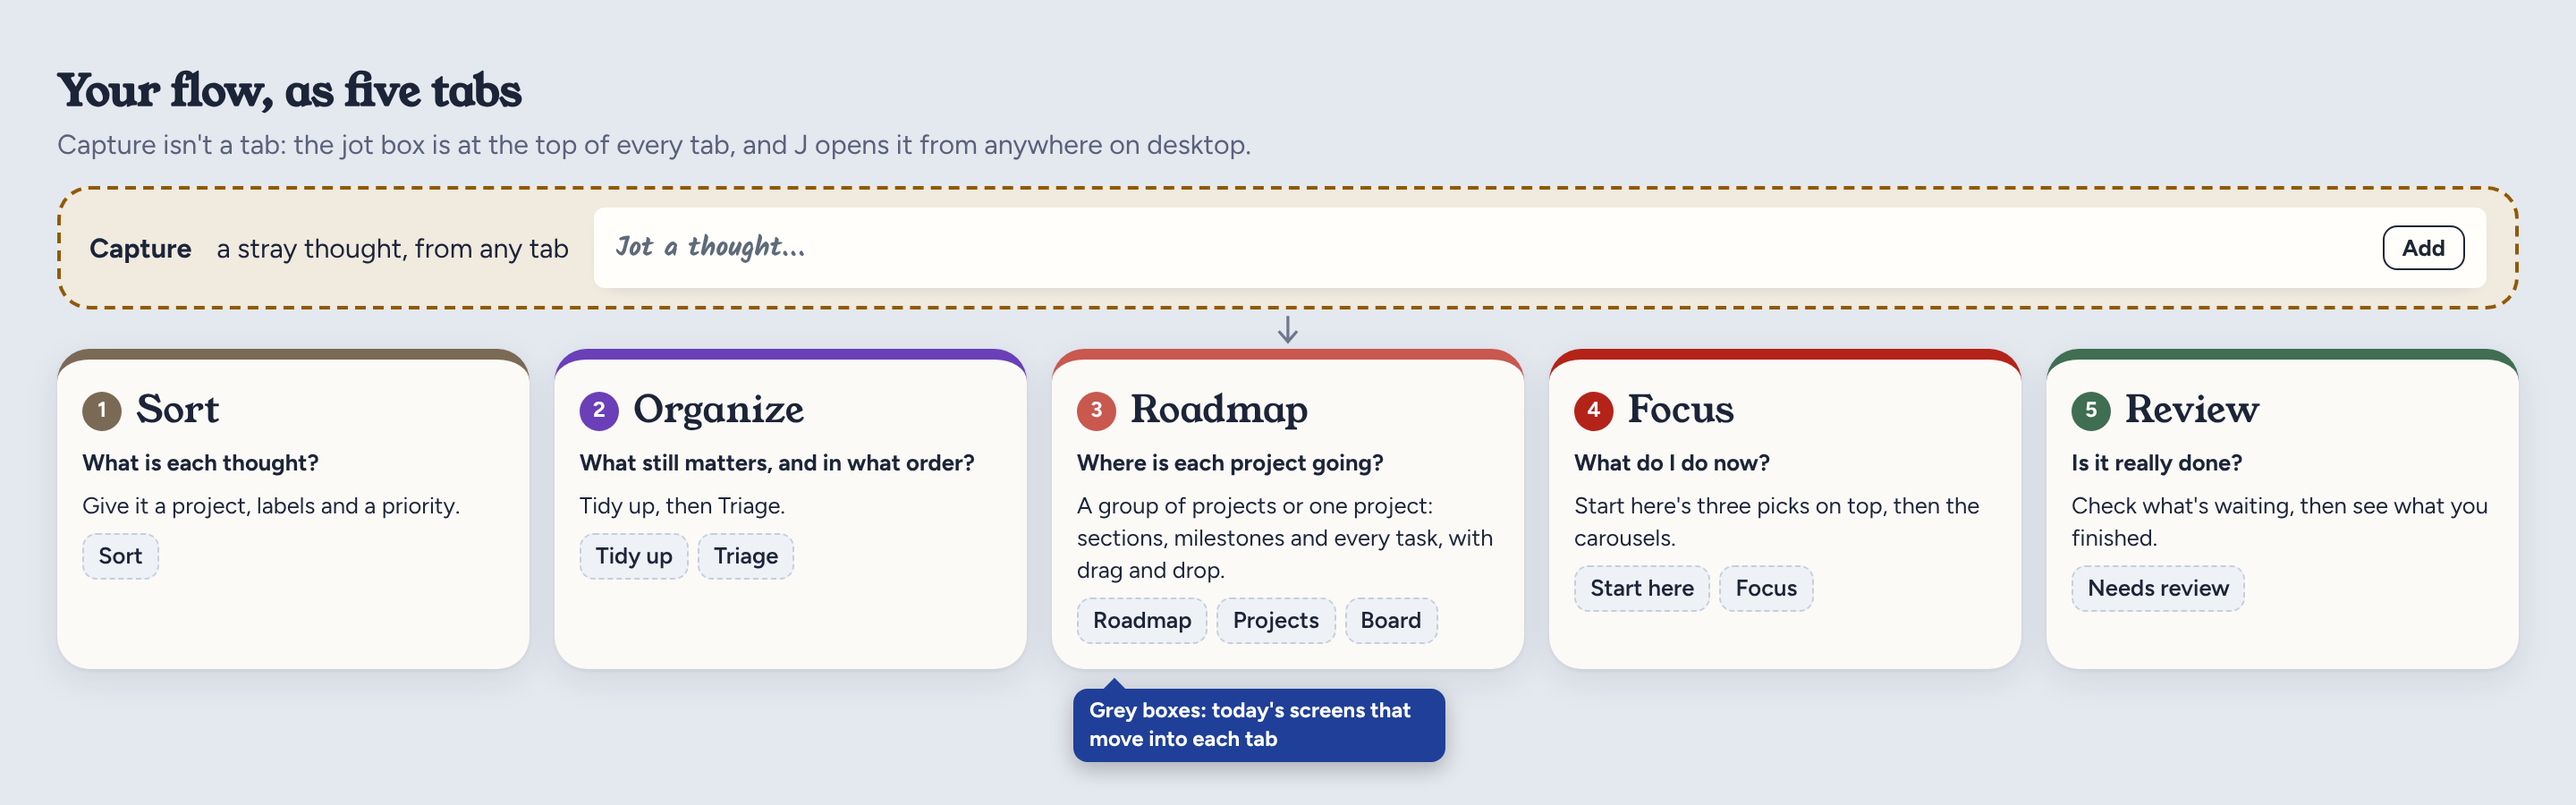
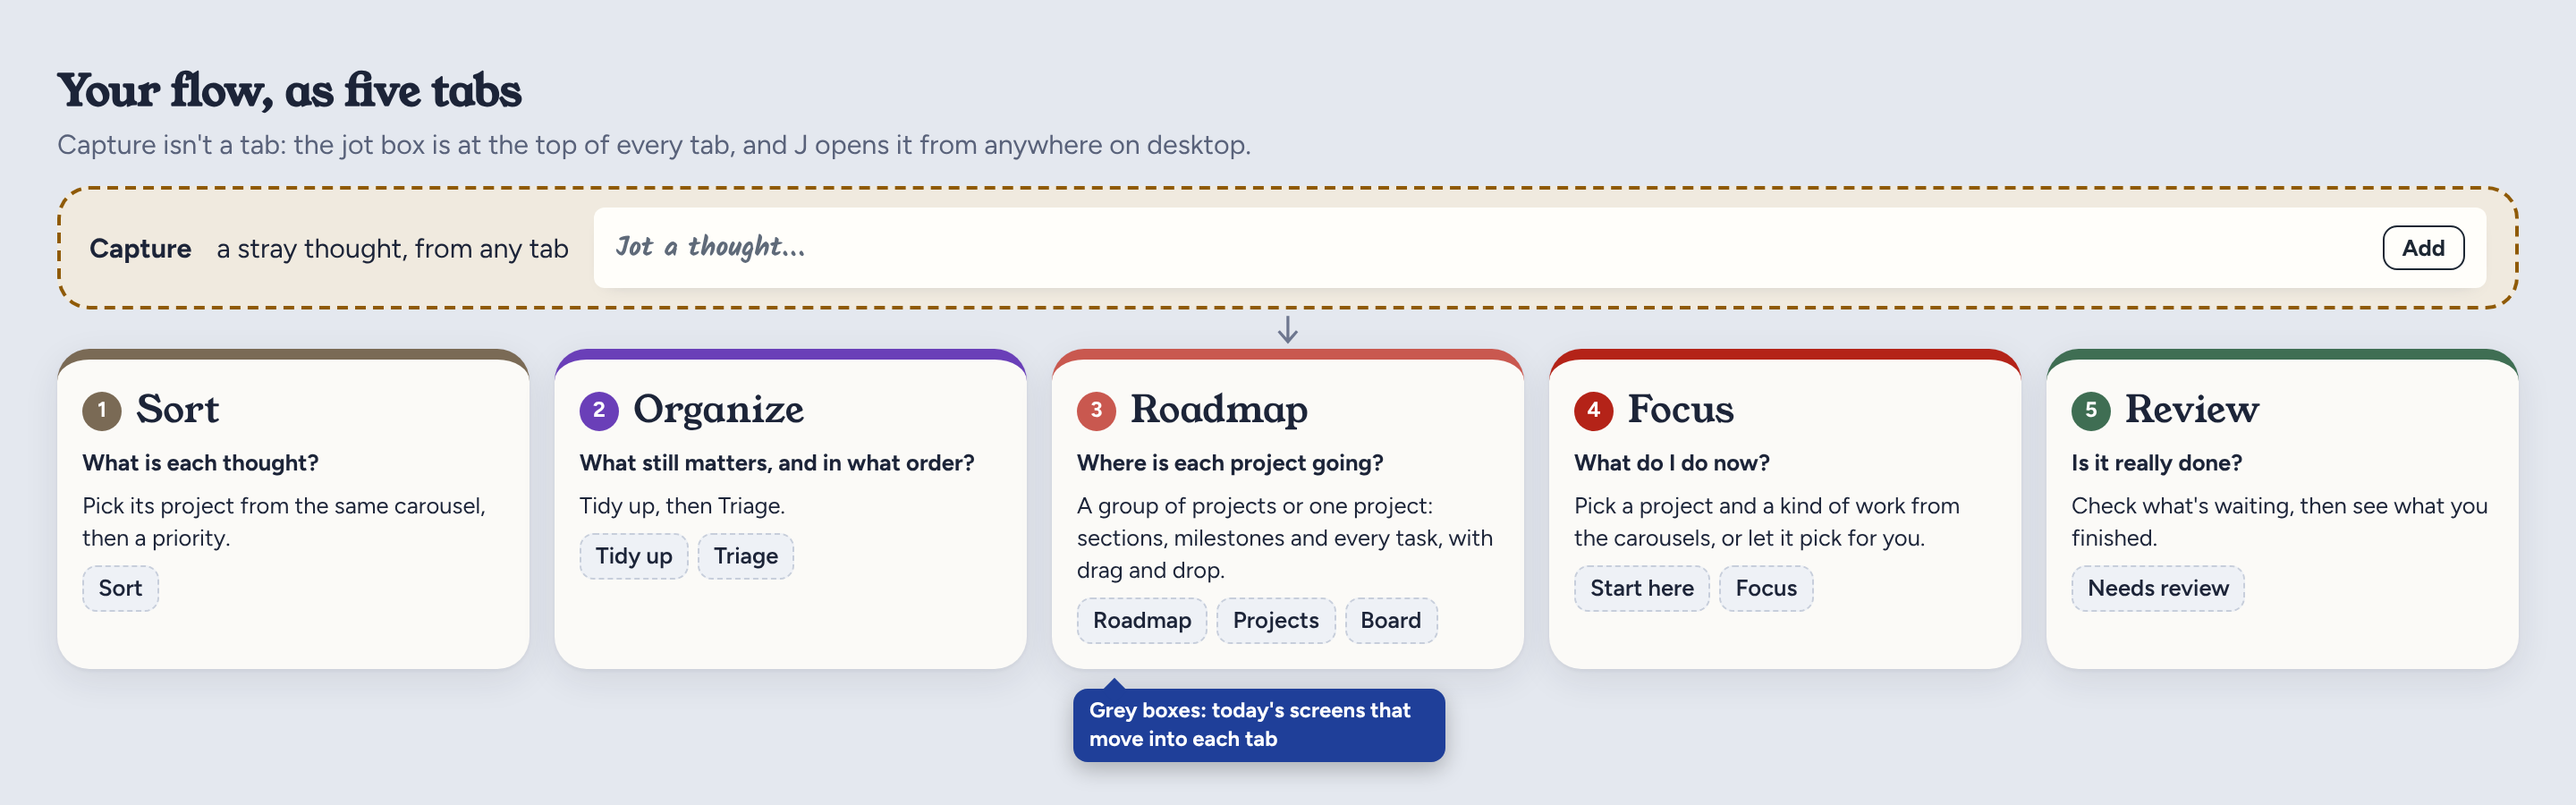
docs: part 3 page shows every page on desktop and phone
Committed by Edens Agent

Changed region(s): [[0.5938, 0.6222, 0.7812, 0.6844], [0.0312, 0.6222, 0.1875, 0.7467]]

diff --git a/docs/plans/friction-part3.html b/docs/plans/friction-part3.html
@@ -273,8 +273,8 @@ const PAGE = {
   "eyebrow": "Proposal · part 3 · nothing built yet",
   "approval": "Design approved: friction plan part 3, tabs as steps",
   "short": {
-    "lead": "You described the flow you want: Capture a stray thought from anywhere, Sort it, Organize with Tidy up and Triage, plan on the Roadmap, then Focus and Review. This plan follows it exactly. Capture is not a tab; the jot box sits at the top of every tab. Below it are five tabs: Sort, Organize, Roadmap, Focus and Review. The Roadmap replaces the Projects screen and the Board. A project has sections, and sections hold milestones. Every milestone has its own Up next, In progress, Review and Done columns. You choose how much each milestone counts and how its progress is measured. All the numbers in the pictures are made-up examples.",
-    "hint": "Tap each row to see its picture. Start with 'Your flow, as five tabs', then the table at the end, which shows where every feature of Projects and Board goes.",
+    "lead": "You asked for three things: keep Focus as it was, with the carousel for picking a task; use that same carousel on Sort; and make the pages less busy. Focus is back to the part 2 carousel, and Sort now picks a project from it. Most of the small tags, number badges and blue pointer labels are gone. Below is every page you will see, each drawn on desktop (left) and phone (right). The tabs still follow your flow: the jot box on every tab, then Sort, Organize, Roadmap, Focus and Review. All the numbers in the pictures are made-up examples.",
+    "hint": "Tap each row to see its picture. Each picture shows the desktop page on the left and the phone page on the right.",
     "key": [
       [
         "Built by me",
@@ -291,7 +291,7 @@ const PAGE = {
         "Your flow, as five tabs",
         "Capture sits above every tab",
         "",
-        "The dashed band at the top is Capture: the jot box shown on every tab, and the J key opens it from anywhere on desktop. Below it are the five tabs in your order, each with the question it answers. The grey boxes under each tab name today's screens that move into it.",
+        "The dashed band at the top is Capture: the jot box shown on every tab, and the J key opens it from anywhere on desktop. Below it are the five tabs in your order. The grey boxes under each tab name today's screens that move into it.",
         "Read the five tabs left to right and check that the order matches your flow.",
         {
           "src": "friction-part3-pics/p3-flow5.png",
@@ -301,80 +301,132 @@ const PAGE = {
       ],
       [
         "list",
-        "Sort, phone",
-        "Jot on top, then sort",
+        "Sort",
+        "Pick the project from the carousel",
         "you",
-        "The jot box is at the top, as on every tab. Below it, one thought at a time gets a project, a priority (required) and a due date (optional), as in part 2. The tabs at the bottom are numbered 1 to 5. Sort and Review each show a count of items waiting for you.",
-        "Check that the jot box at the top doesn't crowd the sorting.",
+        "One thought at a time. Under it is the same project carousel as Focus: arrow keys or a swipe move along it, and typing a name jumps to that project. Then pick a priority and, if you like, a due date, and press 'File to Chores' (the button names the project you picked).",
+        "Check that picking a project here feels the same as on Focus.",
         {
-          "src": "friction-part3-pics/p3-sort5.png",
-          "alt": "Phone drawing: jot box, the Sort tab with one thought, project chips, priority and due buttons, File to Chores and Later, and five numbered tabs",
-          "caption": "Sort on a phone. A drawing, not built."
+          "src": "friction-part3-pics/pg-both-sort.png",
+          "alt": "Sort on desktop and phone: a thought, the project carousel with Chores picked, priority and due buttons, and File to Chores",
+          "caption": "Desktop left, phone right."
         }
       ],
       [
         "list",
-        "Roadmap, a group of projects",
-        "See several projects at once",
+        "Organize: Tidy up",
+        "Keep or close what's left over",
         "you",
-        "With the switch on Area (here Apps), each row is a project. Each block is the milestone that project is working on in one section, with its own measure, such as screens tested or beta testers. The percent under each project name adds up its milestones, giving more weight to the ones you said count more.",
-        "Check that one block per section is enough to see where each project stands.",
+        "Tidy up and Triage sit under Organize. Each group says why its tasks are there, and nothing closes until you press Confirm. On a phone, two buttons at the top switch between Tidy up and Triage.",
+        "Check that you can tell why each task is in its group.",
         {
-          "src": "friction-part3-pics/p3-roadmap-group5.png",
-          "alt": "Desktop drawing: Roadmap for the Apps area, three project rows, each with milestone blocks tagged by section and their own measures",
-          "caption": "Roadmap for a group of projects. A drawing, not built."
+          "src": "friction-part3-pics/pg-both-tidy.png",
+          "alt": "Tidy up for the Home area on desktop and phone, with Merge, Keep and Close buttons and a Confirm button",
+          "caption": "Desktop left, phone right."
         }
       ],
       [
         "list",
-        "Roadmap, one project",
+        "Organize: Triage",
+        "Rank what comes next",
+        "you",
+        "Tasks are ranked into Now, Next and Later. On desktop the seven ranking rules sit on the right, and you can drag a task to change its place.",
+        "Check that Now, Next and Later are enough on a phone, where the list of seven ranking rules is not shown.",
+        {
+          "src": "friction-part3-pics/pg-both-triage.png",
+          "alt": "Triage for the Home area on desktop and phone, with Now, Next and Later lists",
+          "caption": "Desktop left, phone right."
+        }
+      ],
+      [
+        "list",
+        "Roadmap: a group of projects",
+        "Every project in an area at once",
+        "you",
+        "With the switch on Area, each project gets a row showing its milestones and how far along each one is. On a phone each project is one card that shows the milestone it's on now.",
+        "Check that one milestone on each phone card is enough.",
+        {
+          "src": "friction-part3-pics/pg-both-roadmap-group.png",
+          "alt": "Roadmap for the Apps area on desktop and phone, with three projects and their milestones",
+          "caption": "Desktop left, phone right."
+        }
+      ],
+      [
+        "list",
+        "Roadmap: one project",
         "Sections, milestones and every task",
         "you",
-        "With the switch on Project, the page shows the project's sections in order. Each milestone opens into four columns: Up next, In progress, Review and Done. You can drag a task to any column, in any direction. A milestone can move to another section too; the dashed gap shows where it will land. The buttons '+ Add a task', '+ Add a milestone' and '+ Add a section' sit where they apply. The bar at the top splits the project's progress by milestone, so you can see how much each milestone added.",
-        "Follow the task 'Test on phone' as it is dragged in the picture, then tell me whether dragging looks right to you.",
+        "With the switch on Project, you see the project's sections in order. The open milestone has four columns: Up next, In progress, Review and Done. You drag a task between them in any direction. On a phone the four columns become four buttons, and you see one column at a time.",
+        "Check that it is clear what each of the four phone buttons shows.",
         {
-          "src": "friction-part3-pics/p3-roadmap-proj5.png",
-          "alt": "Desktop drawing: Focus Deck at 26 percent, a split progress bar, section 1 Foundations with milestone Start here screen open into four columns and a task being dragged, a closed Areas milestone, and section 2 with a dashed drop gap",
-          "caption": "One project's roadmap. A drawing, not built."
+          "src": "friction-part3-pics/pg-both-roadmap-proj.png",
+          "alt": "Focus Deck's roadmap on desktop and phone, with section 1 Foundations open into four columns",
+          "caption": "Desktop left, phone right."
         }
       ],
       [
         "list",
-        "Milestone settings, phone",
+        "Milestone settings",
         "You decide what counts",
         "you",
-        "Tapping a milestone's name opens its settings. The slider sets how much it counts toward the project. 'Measure progress by' offers four ways. Tasks done counts finished tasks. With Task size, small counts as 1, medium as 2 and large as 3. Your own number has a name and a target that you set. A checklist lists what 'done' means.",
-        "Check that the four measures cover how you'd judge a milestone.",
+        "Tapping a milestone's name opens this. The slider sets how much it counts toward the project. There are four ways to measure it: tasks done, task size, your own number, or a checklist.",
+        "Check that the four ways cover how you judge a milestone.",
         {
-          "src": "friction-part3-pics/p3-milestone5.png",
-          "alt": "Phone drawing: milestone settings sheet with a slider at 40 percent and four measure options, Your own number selected as screens tested on a phone 2 of 4",
-          "caption": "Milestone settings on a phone. A drawing, not built."
+          "src": "friction-part3-pics/pg-both-milestone.png",
+          "alt": "Milestone settings on desktop and phone, with a slider at 40 percent and Your own number picked",
+          "caption": "Desktop left, phone right."
         }
       ],
       [
         "list",
-        "Focus, desktop",
-        "Start here on top, then choose",
+        "Focus",
+        "As it was: pick from the carousel",
         "you",
-        "Start here's three picks and 'Pick one for me' sit at the top, beside 'Doing now', which lists what is in progress. 'Or choose it yourself' below is the carousel from part 2. The All / Area / Project switch works here too.",
-        "Check that Start here belongs on Focus rather than a tab of its own.",
+        "This is the part 2 Focus, unchanged: a project carousel, then a kind-of-work carousel. One quiet link, 'Or let me pick for you', replaces the separate Start here screen.",
+        "Check that this is the Focus you meant.",
         {
-          "src": "friction-part3-pics/p3-focus5.png",
-          "alt": "Desktop drawing: Start here with three picks and Pick one for me, a Doing now column with two tasks, and a carousel of Home projects below",
-          "caption": "Focus on desktop. A drawing, not built."
+          "src": "friction-part3-pics/pg-both-focus.png",
+          "alt": "Focus on desktop and phone: project carousel, kind-of-work carousel, and an Or let me pick for you link",
+          "caption": "Desktop left, phone right."
         }
       ],
       [
         "list",
-        "Review, phone",
+        "Focus: doing a task",
+        "The task you picked",
+        "you",
+        "After you pick, the task shows as a note with 'Mark in progress', 'I've done it' and 'Not this one', as it does in the app today.",
+        "Nothing new here; check it matches what you use now.",
+        {
+          "src": "friction-part3-pics/pg-both-focus-task.png",
+          "alt": "A picked task on desktop and phone, with I've done it and Not this one buttons",
+          "caption": "Desktop left, phone right."
+        }
+      ],
+      [
+        "list",
+        "Review",
         "Check that it's really done",
         "you",
-        "'Waiting for your review' lists tasks in the Review column, each with 'Looks good · Done' or 'Needs more work'. 'Needs more work' moves the task back to In progress. 'Done this week' lists what you finished, with Undo.",
-        "Read the two buttons, 'Looks good · Done' and 'Needs more work', and tell me if either is unclear.",
+        "'Waiting for your review' has 'Looks good · Done' and 'Needs more work' on each task. 'Needs more work' moves the task back to In progress. 'Done this week' lists what you finished, with Undo.",
+        "Check that 'Looks good · Done' and 'Needs more work' are clear.",
         {
-          "src": "friction-part3-pics/p3-review5.png",
-          "alt": "Phone drawing: Review tab with two waiting tasks and their buttons, and Done this week with Undo",
-          "caption": "Review on a phone. A drawing, not built."
+          "src": "friction-part3-pics/pg-both-review.png",
+          "alt": "Review on desktop and phone, with waiting tasks and Done this week",
+          "caption": "Desktop left, phone right."
+        }
+      ],
+      [
+        "list",
+        "Settings: Areas",
+        "Your areas, outside the tabs",
+        "you",
+        "Settings opens from the gear on a phone and the bottom of the side menu on desktop. Areas lists the eight areas it starts with, and you can rename, recolour or add more.",
+        "Check that the area list is what you expect.",
+        {
+          "src": "friction-part3-pics/pg-both-settings.png",
+          "alt": "Settings showing the Areas list on desktop and phone",
+          "caption": "Desktop left, phone right."
         }
       ],
       [
@@ -408,6 +460,20 @@ const PAGE = {
       "Capture works from anywhere."
     ],
     [
+      "keep",
+      "Focus",
+      "Stays as the part 2 carousel.",
+      null,
+      "Start here becomes the link 'Or let me pick for you'."
+    ],
+    [
+      "chg",
+      "Sort",
+      "Picks the project from the same carousel as Focus.",
+      null,
+      "Priority and due date stay as in part 2."
+    ],
+    [
       "chg",
       "Projects screen",
       "Becomes the Roadmap, on All, Area or one Project.",
@@ -426,14 +492,7 @@ const PAGE = {
       "Sections and milestone settings",
       "Drag sections and milestones; set what each milestone counts and how it's measured.",
       null,
-      "Project progress is weighted by milestone."
-    ],
-    [
-      "chg",
-      "Start here",
-      "Moves to the top of Focus.",
-      null,
-      "Three picks and Pick one for me stay."
+      "Each milestone counts for a share of the project's progress."
     ],
     [
       "new",
@@ -484,20 +543,20 @@ const PAGE = {
           "2",
           "By task count",
           0,
-          "Milestones with more tasks start with a bigger share. This is the plain task percent, which you said doesn't tell the whole story."
+          "Milestones with more tasks start with a bigger share. This is the plain percent of tasks done, which you said doesn't tell the whole story."
         ]
       ],
       "I suggest equal shares, because then the percent only changes when you choose to give a milestone a bigger share."
     ],
     [
       "starthere",
-      "Where should Start here live?",
+      "Where should Start here's picks go?",
       [
         [
           "1",
-          "Top of Focus",
+          "A link on Focus",
           1,
-          "Five tabs, matching your flow, with the picks above Doing now."
+          "'Or let me pick for you' under the carousels picks a task for you, and Focus stays as it was."
         ],
         [
           "2",
@@ -506,7 +565,7 @@ const PAGE = {
           "Six tabs, one of which isn't in the flow you described."
         ]
       ],
-      "I suggest the top of Focus, because your flow goes straight from Roadmap to Focus."
+      "I suggest the link, because you asked for Focus to stay as it was and to look less busy."
     ],
     [
       "board",
@@ -529,12 +588,12 @@ const PAGE = {
     ]
   ],
   "wrapup": {
-    "summary": "The tabs follow your flow: the jot box on every tab for Capture, then Sort, Organize, Roadmap, Focus and Review. The Roadmap holds sections, milestones and four columns per milestone, and you decide how much each milestone counts.",
-    "changing": "Changed: the tabs, the Jotter, Projects, Board and Start here. Added: sections, milestone settings, weighted progress and the Review tab. Kept: task details, your data and sync.",
+    "summary": "Focus is back to the carousel, Sort uses the same carousel, and the pages are calmer. Every page is drawn on desktop and phone.",
+    "changing": "Changed: the tabs, the Jotter, Sort's project picker, Projects, Board and Start here. Added: sections, milestone settings, weighted progress and the Review tab. Kept: Focus, task details, your data and sync.",
     "blocking": "Waiting on your answers to the four questions in the Choices section of this page, and to the open questions on the part 2 page. Nothing is built until you approve.",
     "next": "After you answer, I will fold parts 1, 2 and 3 into one build order and open GitHub issues for each part.",
     "todo": [
-      "Look at 'Your flow, as five tabs' first, then 'Roadmap, one project'.",
+      "Look through the ten page pictures; each shows desktop and phone.",
       "Pick one answer under each of the four questions in Choices.",
       "Tap <b>Copy my reply<\/b> and send it: \"Design approved: friction plan part 3, tabs as steps\", or say what to change."
     ]

diff --git a/docs/5-today/Today.md b/docs/5-today/Today.md
@@ -46,6 +46,10 @@ sections, milestones and per-milestone Up next / In progress / Review / Done col
 direction; each milestone has a user-set weight and measure. Four questions: Review as a fourth column,
 starting weights, where Start here lives, removing the Board. The Capture/Plan/Start version is superseded.
 
+Part 3 after Eden's review (2026-11-12): Focus stays the part 2 carousel; Sort picks its project from the
+same carousel; Start here becomes the link 'Or let me pick for you'; pages carry fewer labels. Every page
+is drawn on desktop and phone in `docs/generated/friction-audit/part3-pages.html` (`shoot-pages.mjs`).
+
 # Today — 2026-10-21
 
 ## Calm build: QA passed
